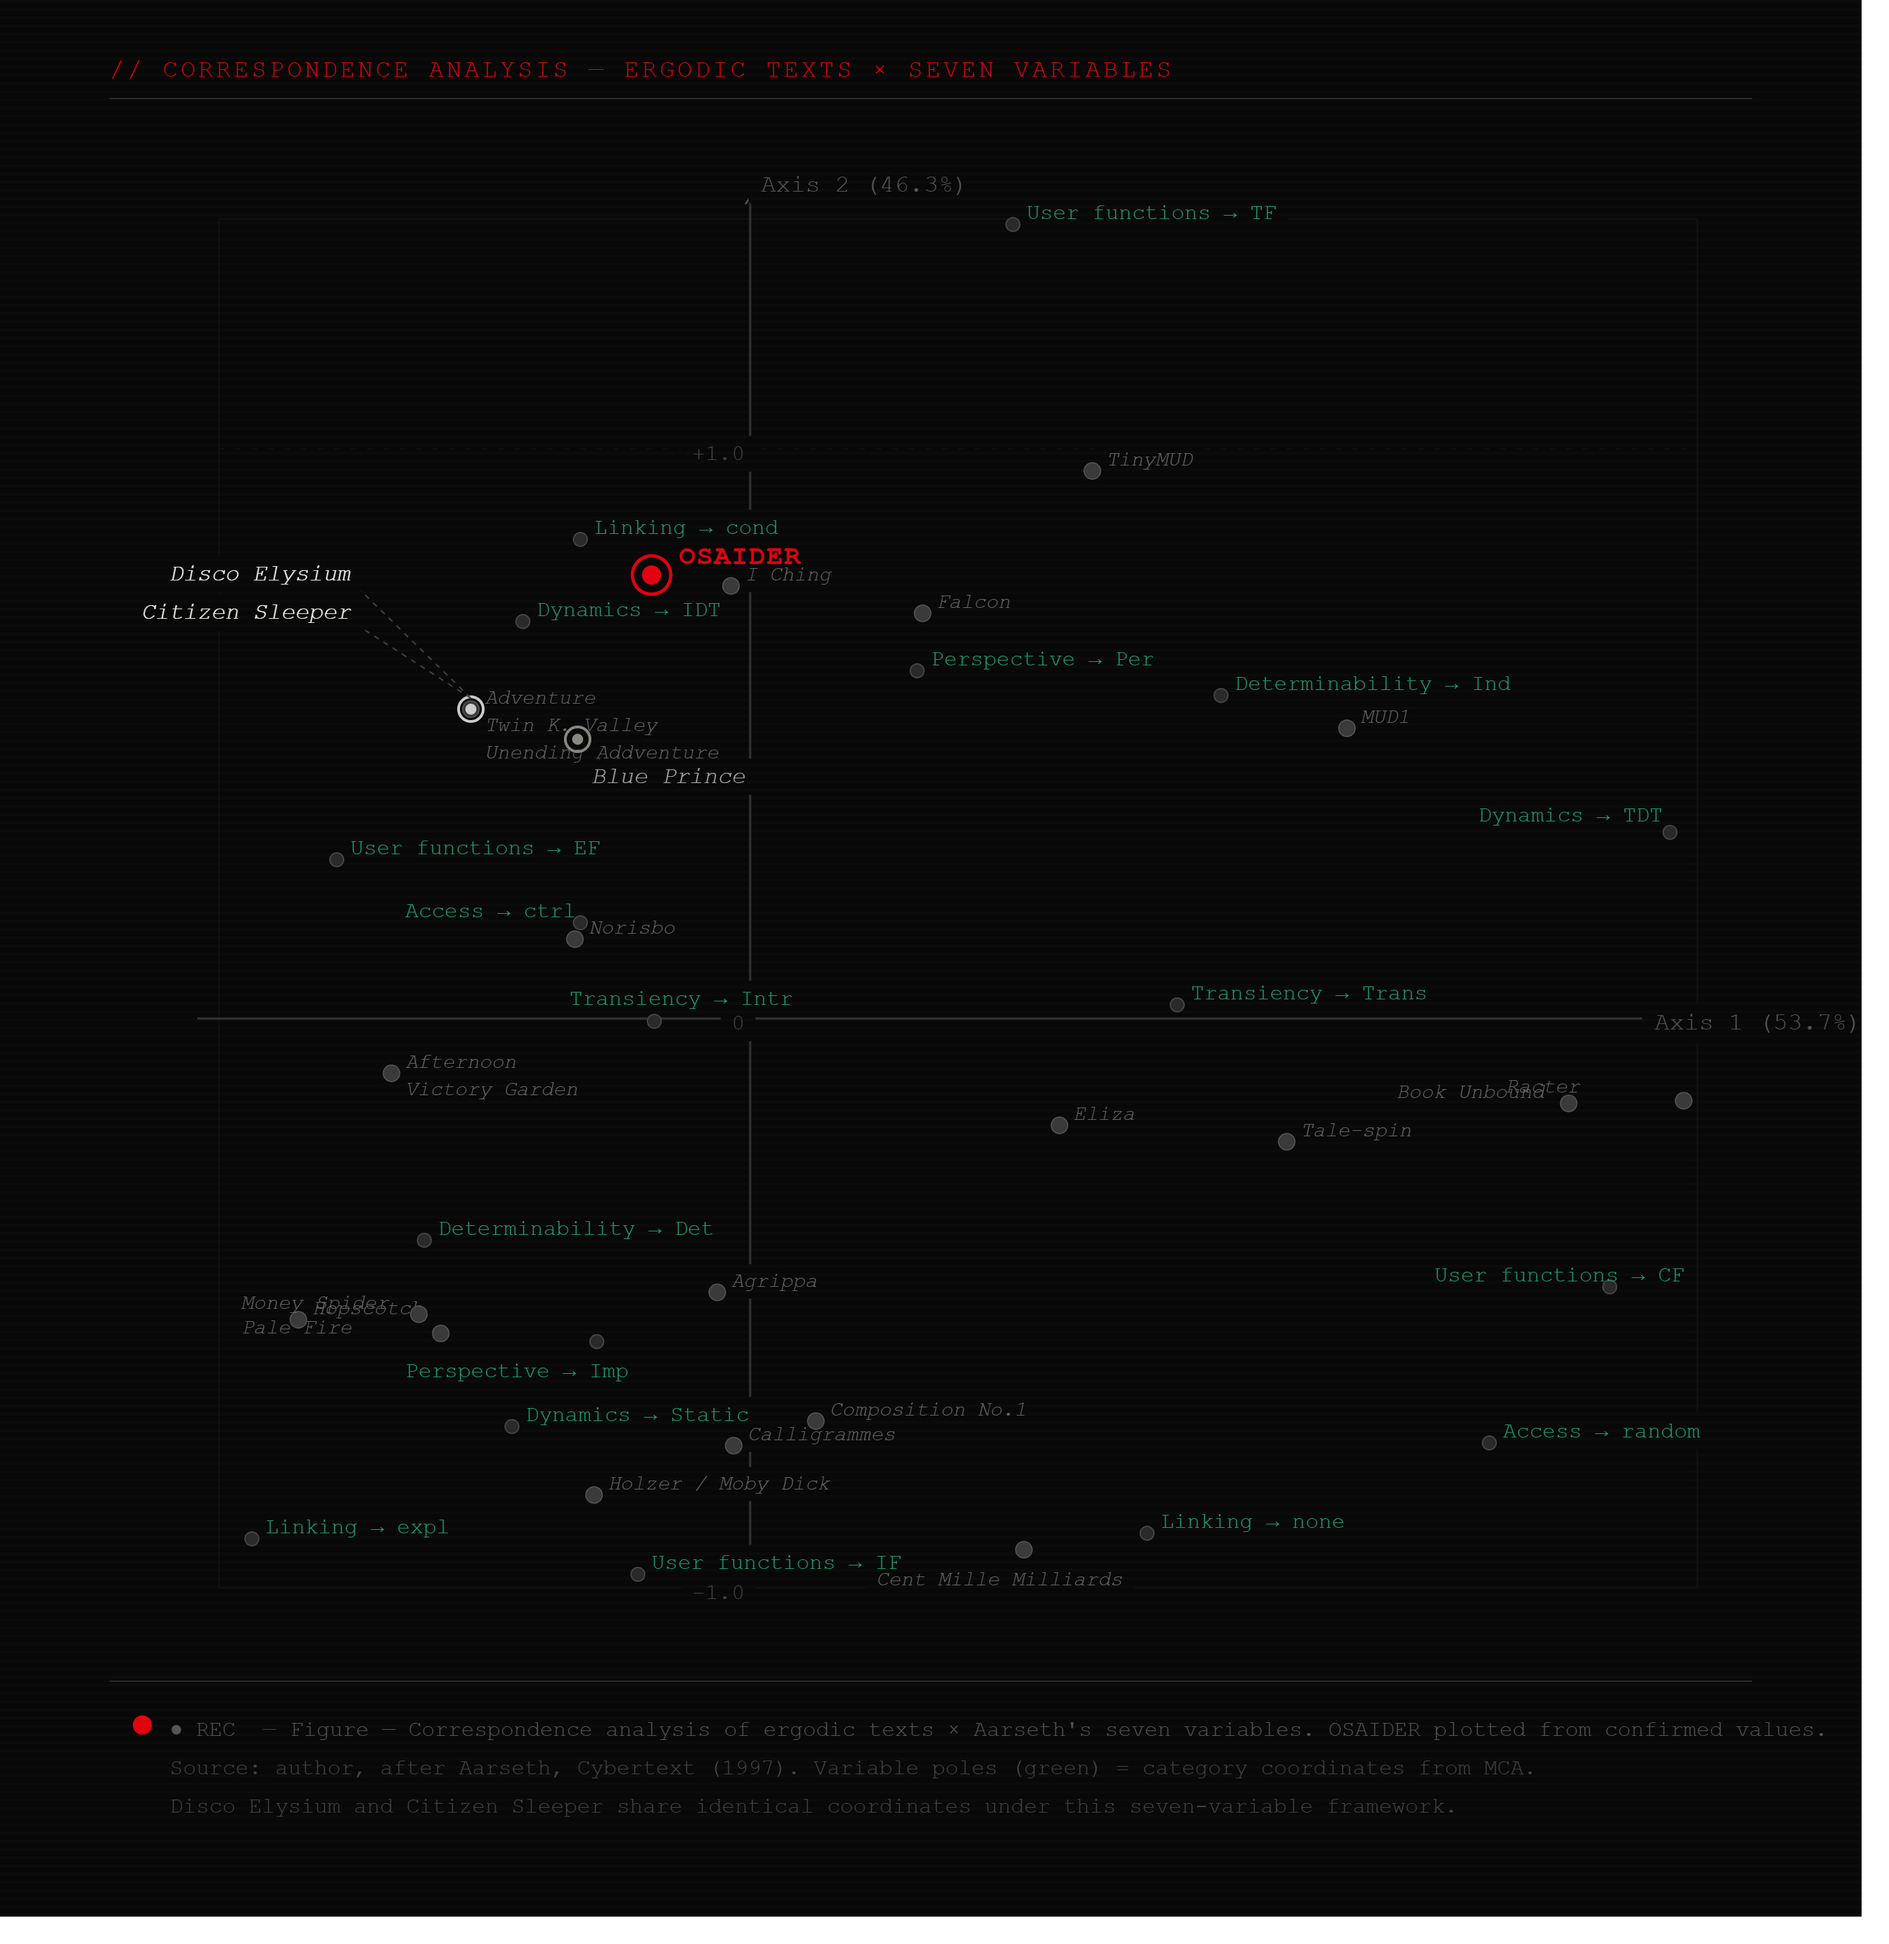
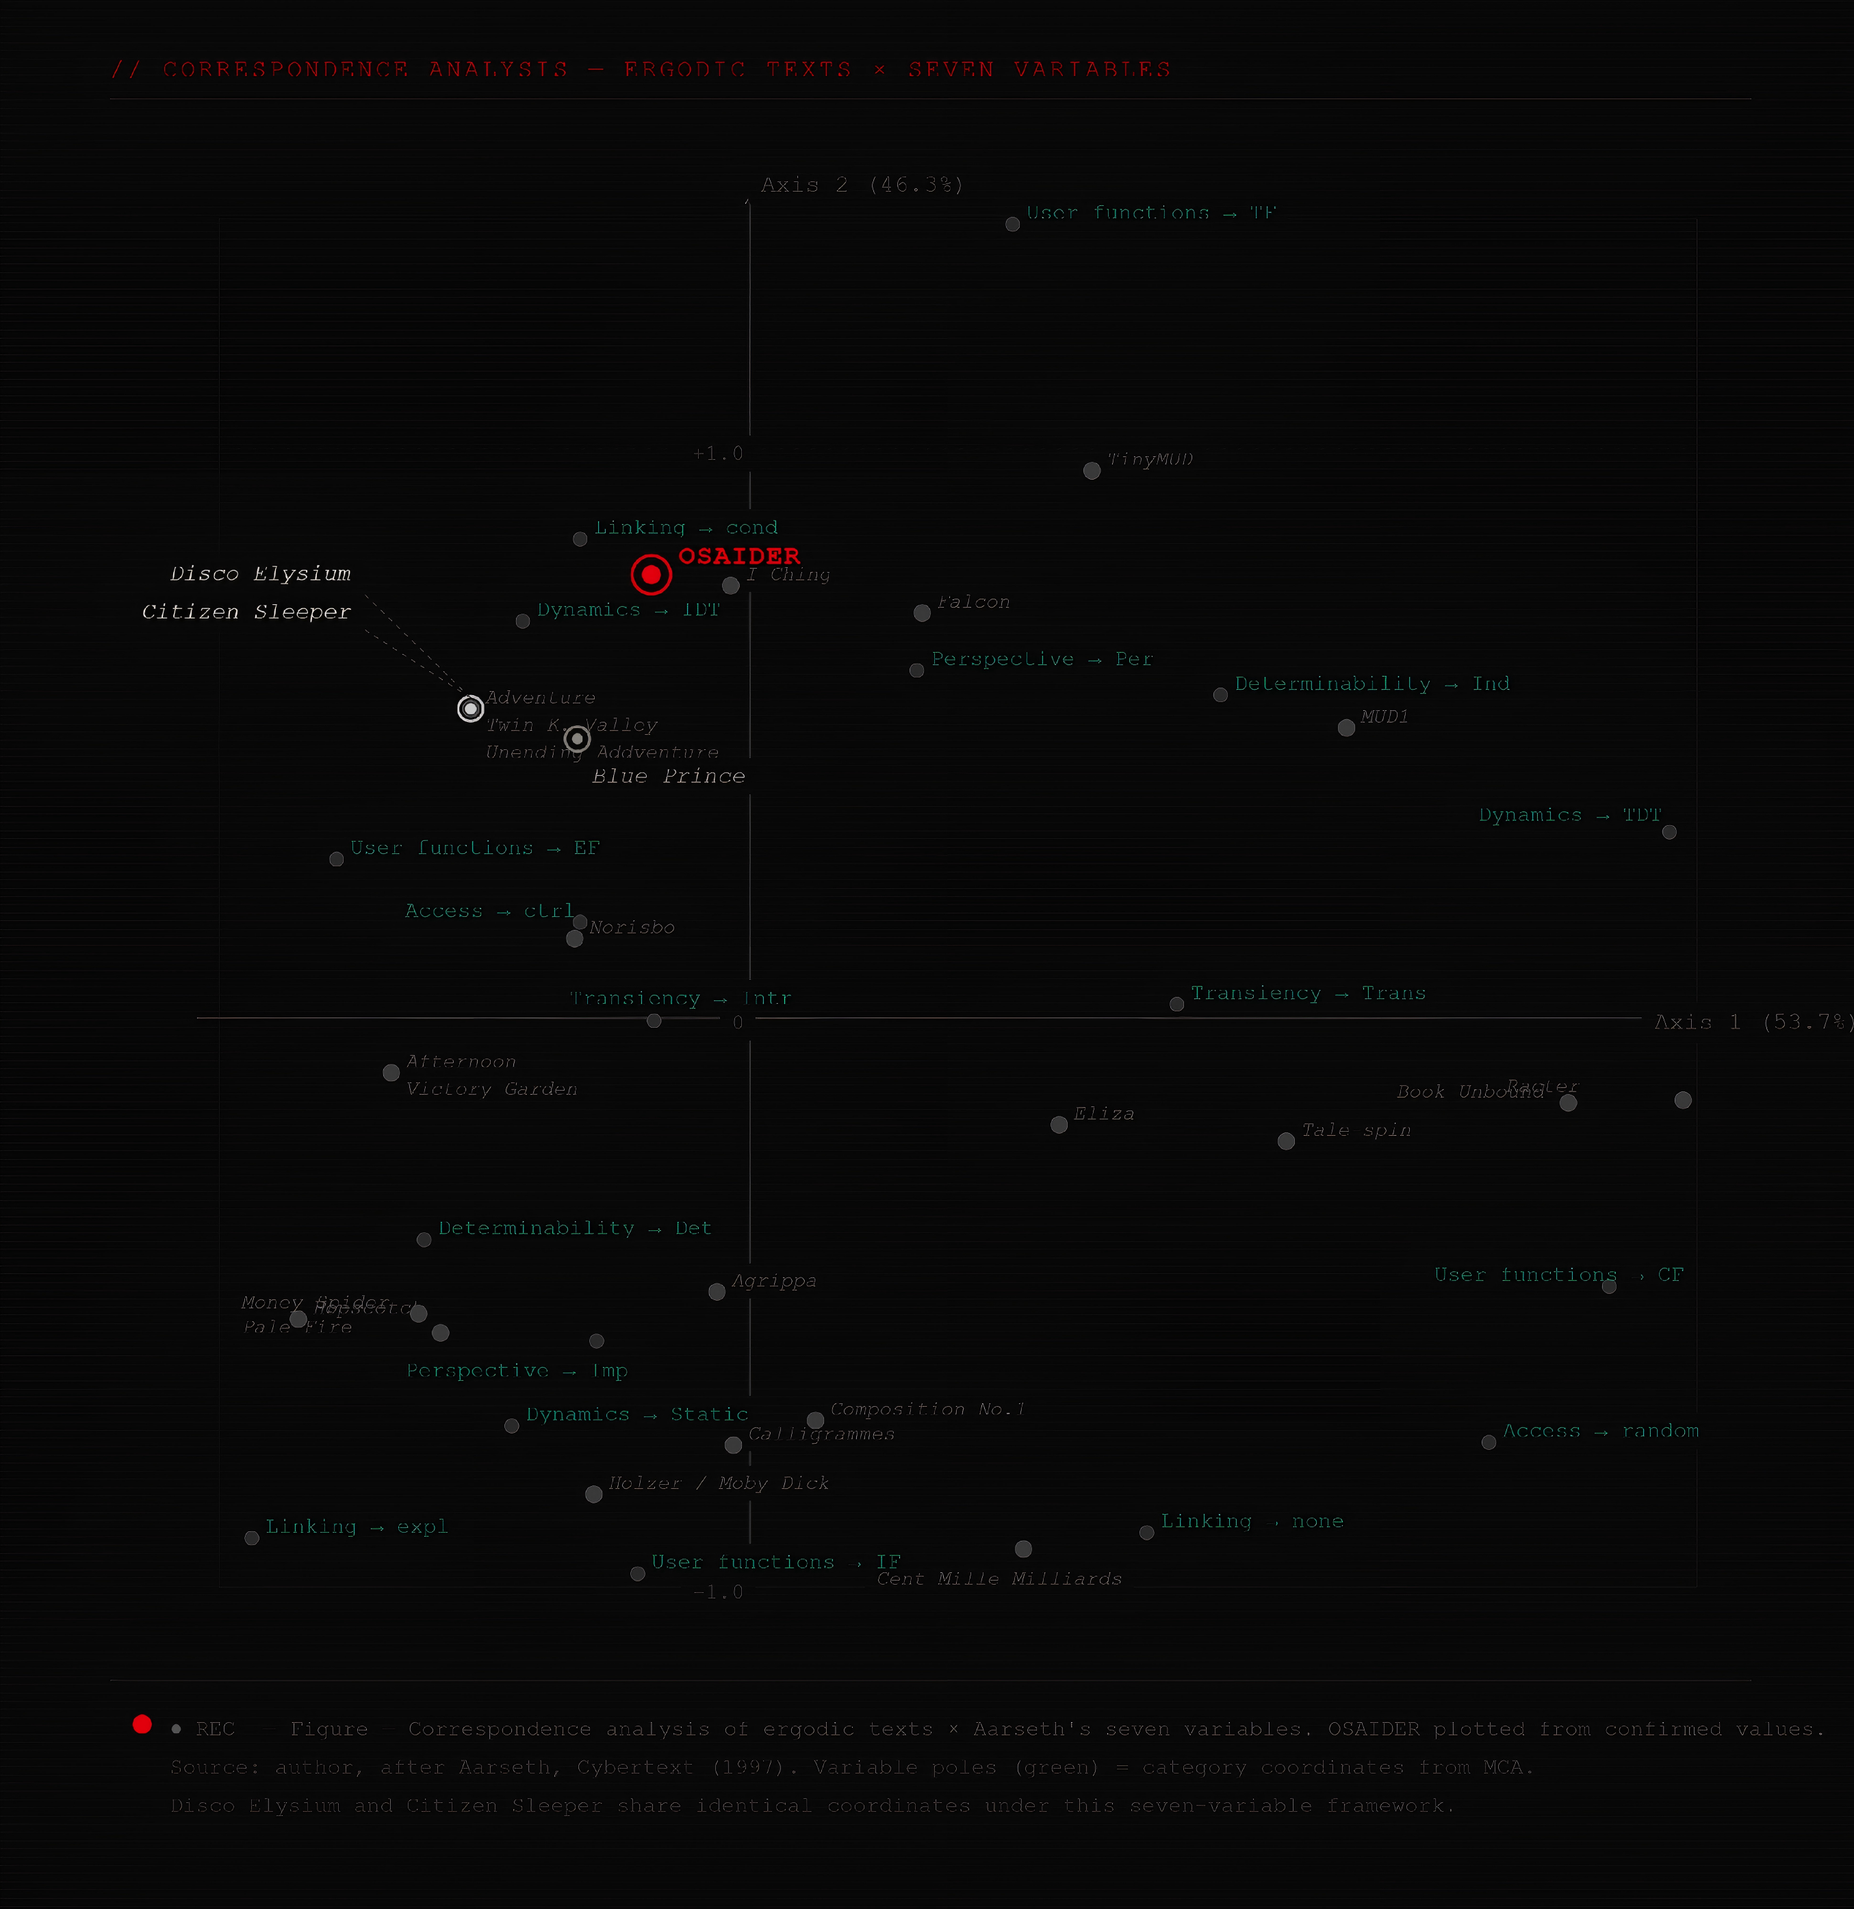
update essay

diff --git a/essay.html b/essay.html
@@ -1111,6 +1111,11 @@
     <div class="chapter-section">
       <h3 class="section-title"><span class="lang-en">4.4 Evaluation: The Eight-Variable Analysis of OSAIDER</span><span class="lang-zh">4.4 评估：以八变量框架分析OSAIDER</span></h3>
 
+      <div class="figure" style="margin:24px 0 32px;">
+        <img src="images/mca_osaider_website_style.png" alt="Correspondence analysis of ergodic texts — OSAIDER plotted across eight variables" style="width:100%;display:block;">
+        <div class="figure-caption"><span class="lang-en">Figure — Correspondence analysis of ergodic texts across seven variables (after Aarseth 1997). OSAIDER (●) plotted using confirmed variable values. Source: author.</span><span class="lang-zh">图 — 遍历文本在七个变量上的对应分析（据Aarseth 1997）。OSAIDER（●）依据确认的变量取值绘制。来源：作者。</span></div>
+      </div>
+
       <p><span class="lang-en">The following applies the analytical framework developed in this dissertation — Aarseth's seven variables extended by the proposed eighth variable of spatial morphology — to <em>OSAIDER</em> as a self-evaluative tool. The correspondence analysis plot above situates <em>OSAIDER</em> within the broader field of ergodic texts; this section unpacks what that position means.</span><span class="lang-zh">以下将本文提出的分析框架——Aarseth的七变量加上所提出的第八变量空间形态——作为自我评估工具应用于<em>OSAIDER</em>。上方的对应分析图将<em>OSAIDER</em>定位于遍历文本的更广泛领域中；本节将进一步阐释这一定位的含义。</span></p>
 
       <div class="figure" style="margin:32px 0;">
